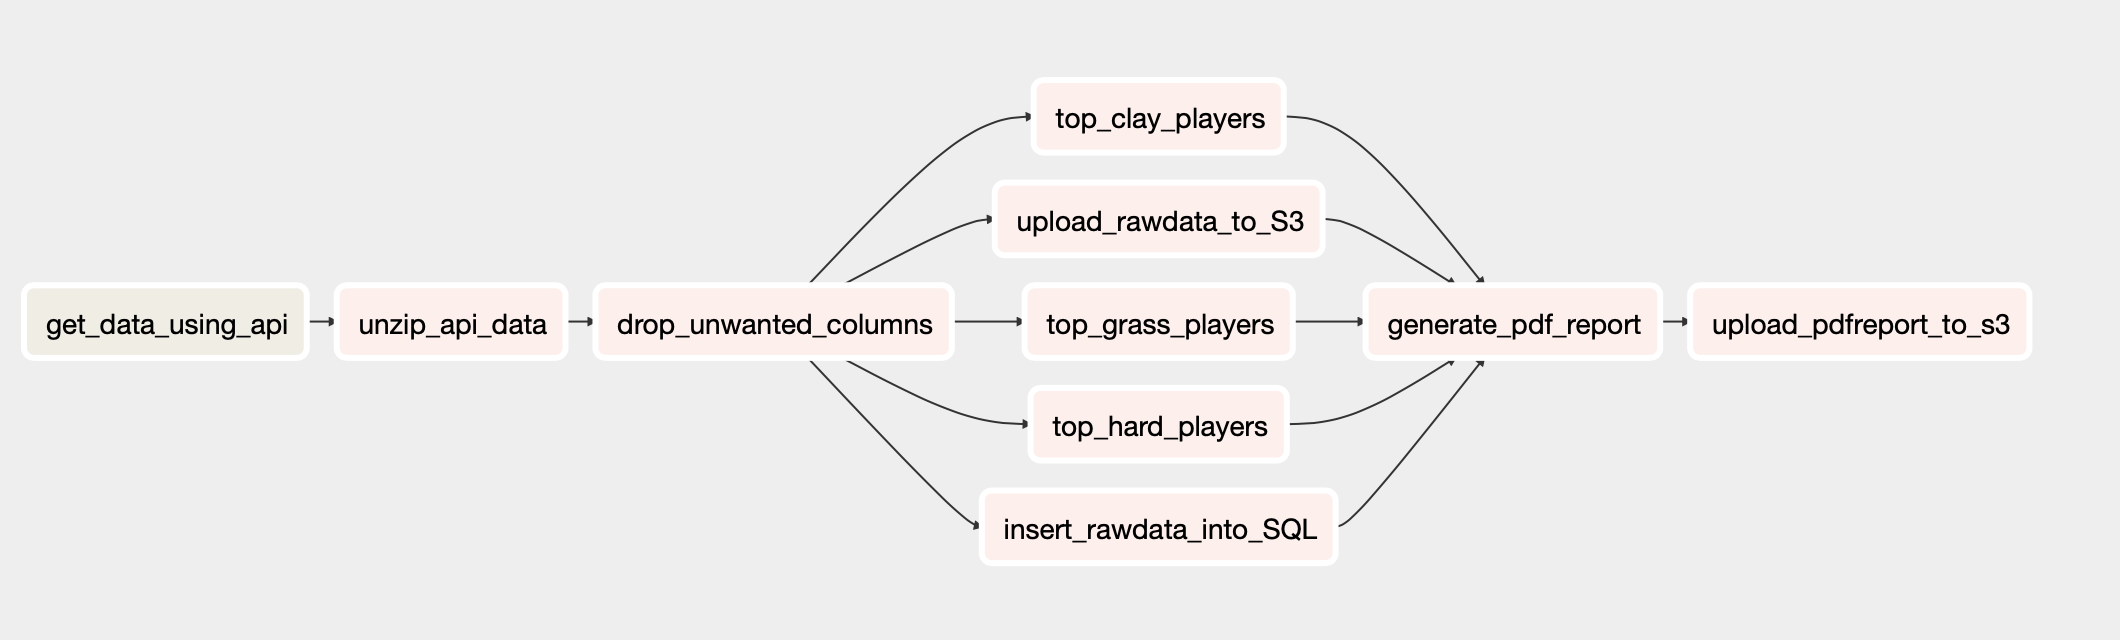
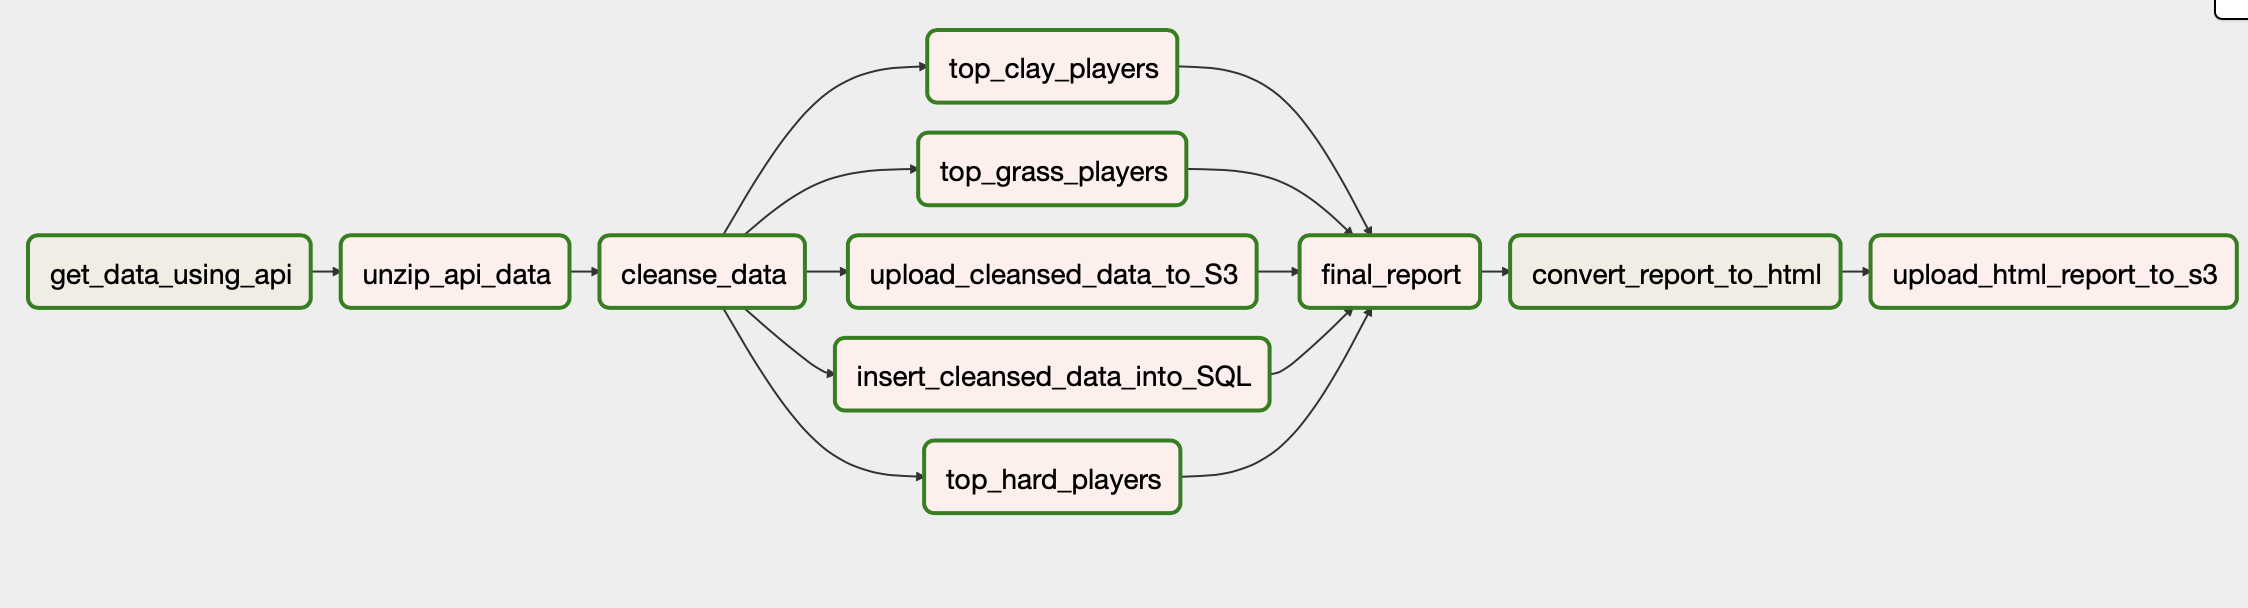
Updated readme file with data pipeline flow and narration

diff --git a/README.md b/README.md
@@ -1,4 +1,77 @@
-# Tennis Data Pipeline Project
+#Tennis Data Pipeline Project
 
-![description_if_image_fails_to_load](./Tennis_Data_Pipeline.png)
+![description_if_image_fails_to_load](Tennis_Data_Pipeline.png)
 
+###Project Description:
+This project demonstrates the use of various technologies, like Airflow, DAGs, Papermill, Pandas, Jupyter Notebook, MySql or postgreSQL  db, and AWS S3,  to build an end to end data pipeline for extracting data using API and then processing the data in the pipeline by using Papermill and Jupyter notebook. The final output is uploaded on AWS S3 bucket. The pipeline can be  scheduled and run on a regular basis.
+
+
+###Use Case:
+I took ATP mens’ tennis data from Kaggle API for this project and analyzed who are the best players on different surfaces like Clay, Grass and Hard surface.
+
+
+###How it works:
+ - First use BashOperator to call Kaggle api for downloading the required ATP men’s data. This data will be in the form of a zipped file. 
+ - Unzip the file and convert into pandas dataframe
+ - Cleanse the data using pandas to delete unwanted data and create a csv file of cleansed data for further processing
+ - Upload the cleansed data file on AWS S3 using boto3 and also 
+ - Insert the data in a sql db using sqlalchemy. This can be MySql or PostreSQL db. Use the appropriate driver based on your sql db
+ - Use papermill to call jupyter notebooks to aggregate the data for each surface type - clay, grass and hard surface and find hte best players on each surface
+ - Generate a report using aggregated data
+ - Convert the final report into an html file
+ - Upload the html file on AWS S3 bucket
+
+###Issues faced and remediation:
+####Issue : 
+The papermill operator was throwing errors when I tried to run a jupyter notebook from an airflow dag. 
+####Remediation: 
+Instead of using Papermill Operator to call Jupyter Notebook, I used python operator to call Jupyter notebook using Papermill.
+Here’s an example of the python code that can be used to call jupyter notebook from Airflow using Papermill
+```angular2
+def call_jupyter():
+    pm.execute_notebook(
+        <input_notebook>,
+        <output_notebook>,
+        parameters={
+                    'parameter1': variable1,
+                    'parameter2': variable2,
+                    }
+    )
+
+task = PythonOperator(
+        task_id='call_jupyter_notebook',
+        provide_context=False,
+        python_callable=call_jupyter,
+        dag=dag,
+)
+
+```
+
+####Issue: 
+Parameters had to be hardcoded in the code making it difficult to make it work on another machine or AWS EC2.
+####Remediation:
+I created a json file with all the variables and passwords and uploaded this file in Airflow Variables. The I called the variables in my DAG program and replaced all hardcoding with thses variabbles.
+Now my code can run on any machine without changing the code. All I have to do is change the variables in the json file. Here's an example of how to call jason variables in your code.
+
+```angular2html
+######################
+#   Read Variables
+######################
+
+var_list = Variable.get("tennis_atp_variables", deserialize_json=True)
+
+var_kaggle_api_cmd = var_list["var_kaggle_api_cmd"]
+var_atp_report_cmd = var_list["var_atp_report_cmd"]
+var_path_unzip_from = var_list["var_path_unzip_from"]
+
+```
+
+###Tools used:
+ - Airflow
+ - Pandas
+ - Papermill
+ - Jupyter Notebook
+ - MySql
+ - postgreSQL
+ - sqlalchemy
+ - AWS S3
